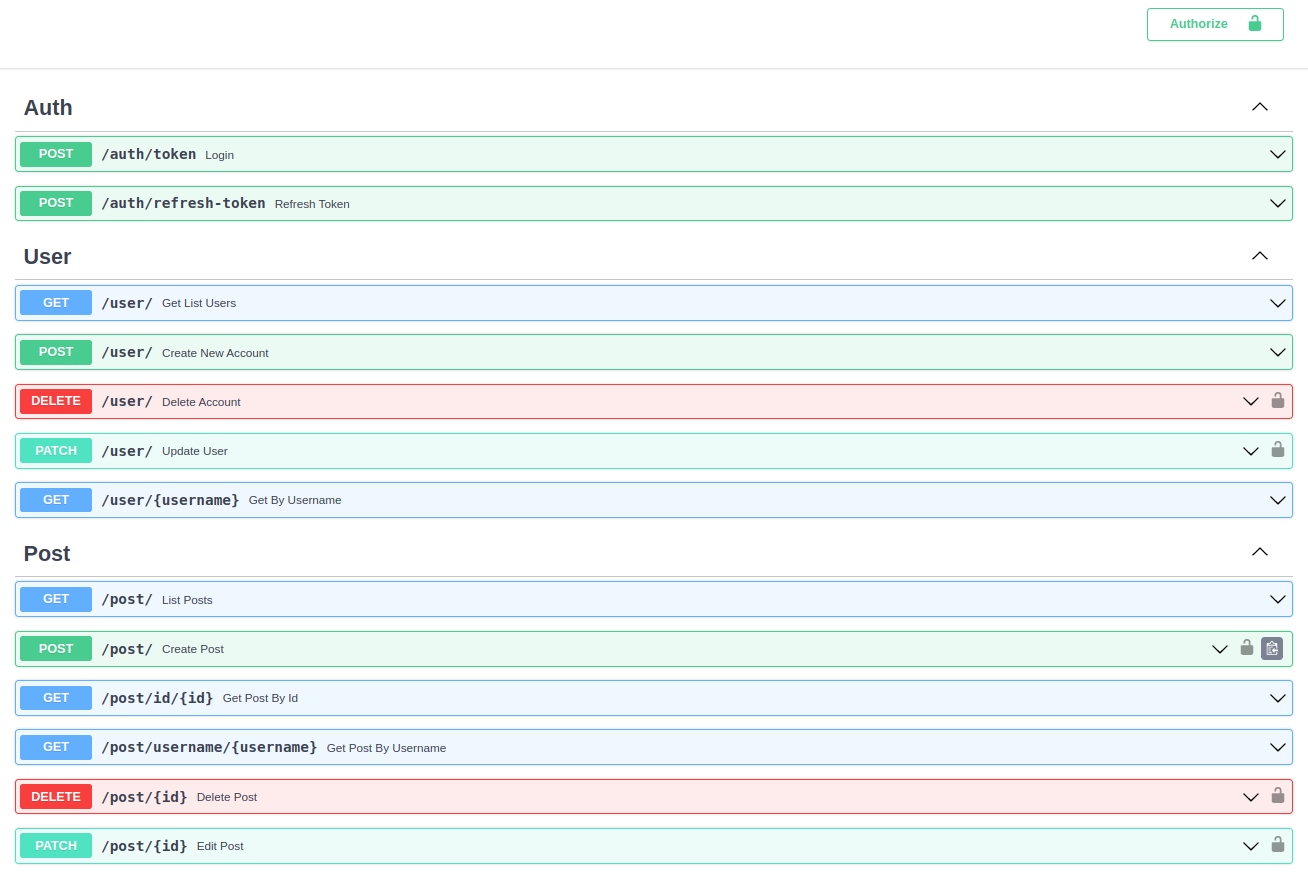
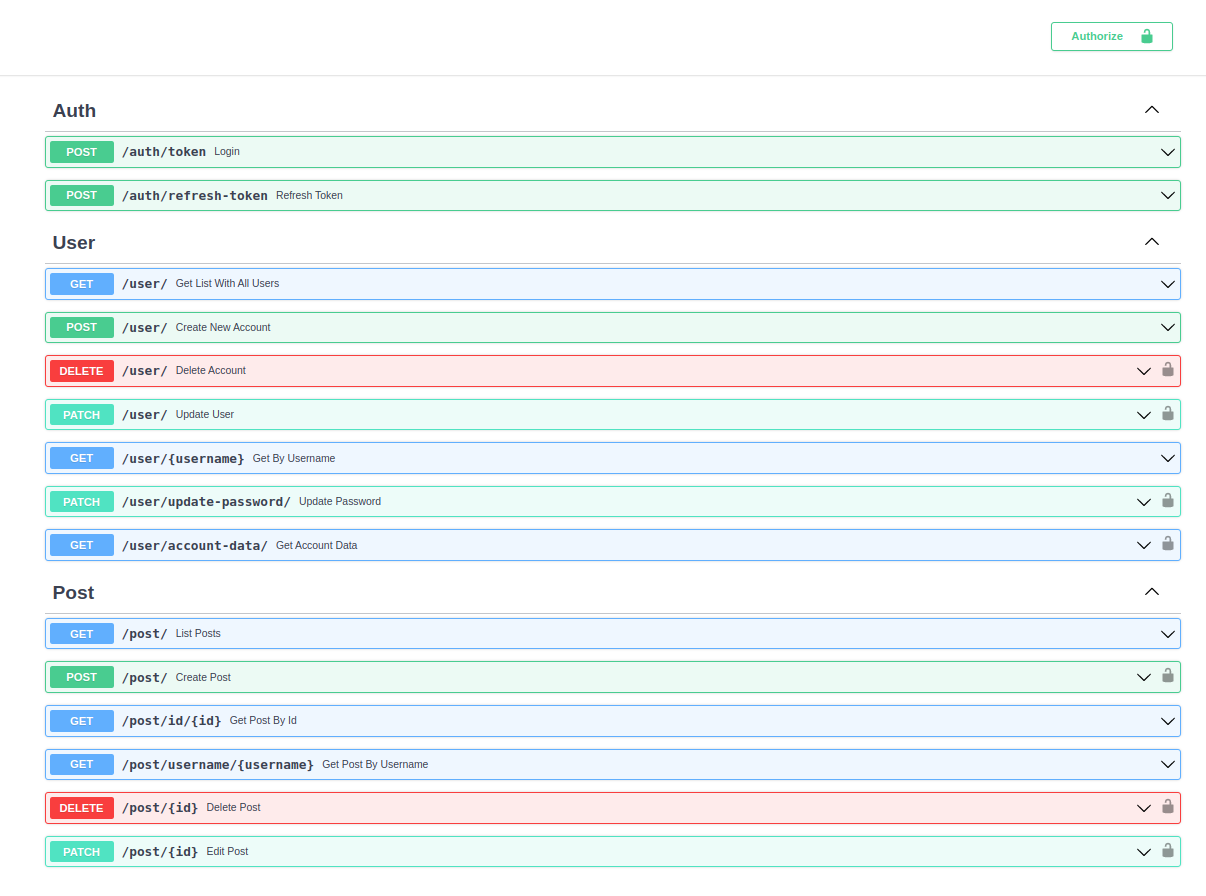
docs: update(README, Tasks, Tests, Endpoints.png)

Changed region(s): [[0.0, 0.0917, 1.0, 0.9785], [0.859, 0.0, 0.9818, 0.0612]]

diff --git a/docs/README.md b/docs/README.md
@@ -32,20 +32,20 @@ O projeto será modelado no contexto de um Blog, afim de utilizar CRUD nas route
 
 ### Usuários
 
-- Registro de novos usuários
-- Autenticação de usuários
-- Atualizar dados
-- Deletar conta
+- [x] Registro de novos usuários
+- [x] Autenticação de usuários
+- [x] Atualizar dados
+- [x] Deletar conta
 
 ### Postagens
 
-- Criação de novo post
-- Edição de post
-- Remoção de post
-- Listagem de posts geral (home)
-- Listagem de posts seguidos (timeline)
-- Likes em postagens
-- Postagem pode ser resposta a outra postagem
+- [x] Criação de novo post
+- [x] Edição de post
+- [x] Remoção de post
+- [x] Listagem de posts geral (home)
+- [ ] Listagem de posts seguidos (timeline)
+- [ ] Likes em postagens
+- [ ] Postagem pode ser resposta a outra postagem
 
 
 ## Requisitos

diff --git a/docs/tests.md b/docs/tests.md
@@ -18,15 +18,19 @@
 ## User
 - [x] Routes 
   - [x] Create
-  - [x] Get-all
-  - [x] Get-by-username
+  - [x] Get all
+  - [x] Get by username
+  - [x] Get account data
   - [x] Delete
-  - [x] Update   
-- [ ] Models
+  - [x] Update
+  - [x] Update password
+- [x] Models
   - [x] UserModel
-  - [x] UserResponse
   - [x] UserRequest
-  - [ ] UserRequestPatch
+  - [x] UserRequestPatch
+  - [x] UserRequestUpdatePassword
+  - [x] UserResponse
+  - [x] UserResponseAccountData
   
 ---
 ## Post

diff --git a/docs/tasks.md b/docs/tasks.md
@@ -18,15 +18,19 @@
 ## User
 - [x] Routes 
   - [x] Create
-  - [x] Get-all
-  - [x] Get-by-username
+  - [x] Get all
+  - [x] Get by username
+  - [x] Get account data
   - [x] Delete
-  - [x] Update   
+  - [x] Update
+  - [x] Update password
 - [x] Models
   - [x] UserModel
-  - [x] UserResponse
   - [x] UserRequest
   - [x] UserRequestPatch
+  - [x] UserRequestUpdatePassword
+  - [x] UserResponse
+  - [x] UserResponseAccountData
       
 ---
 ## Post
